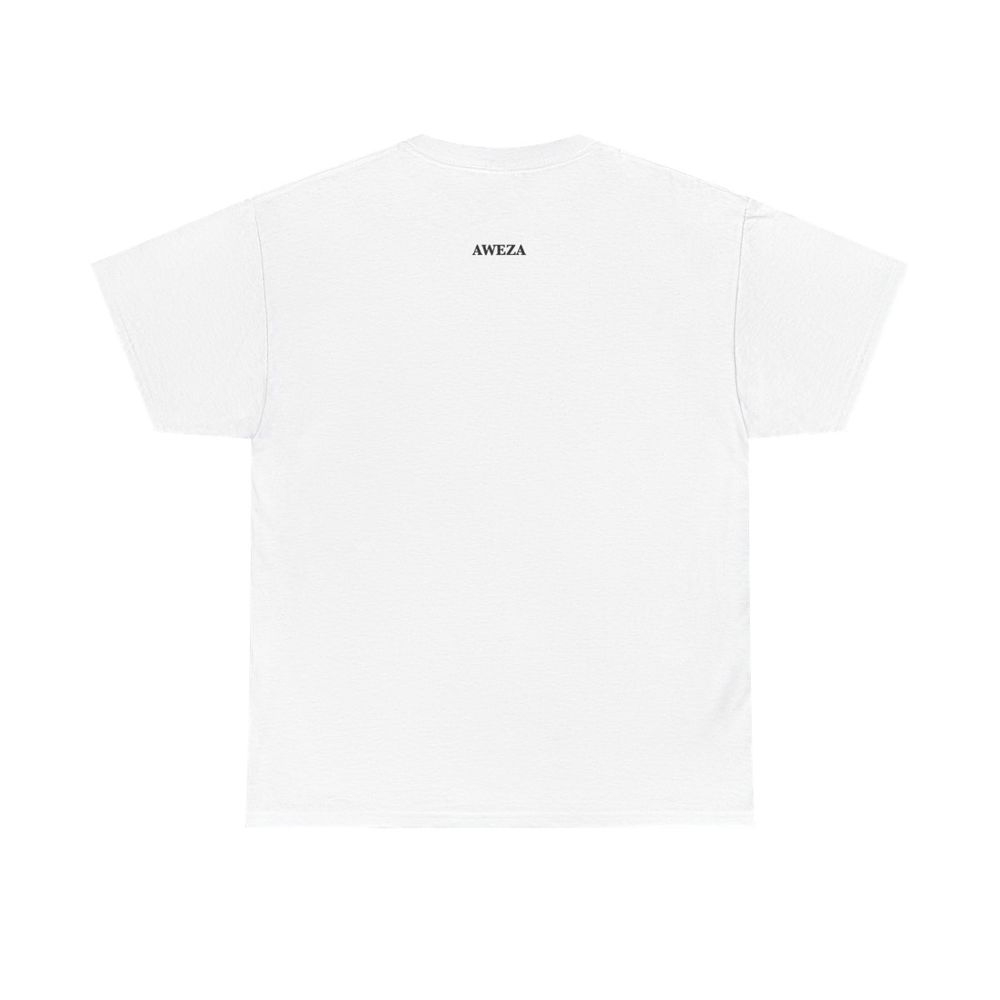
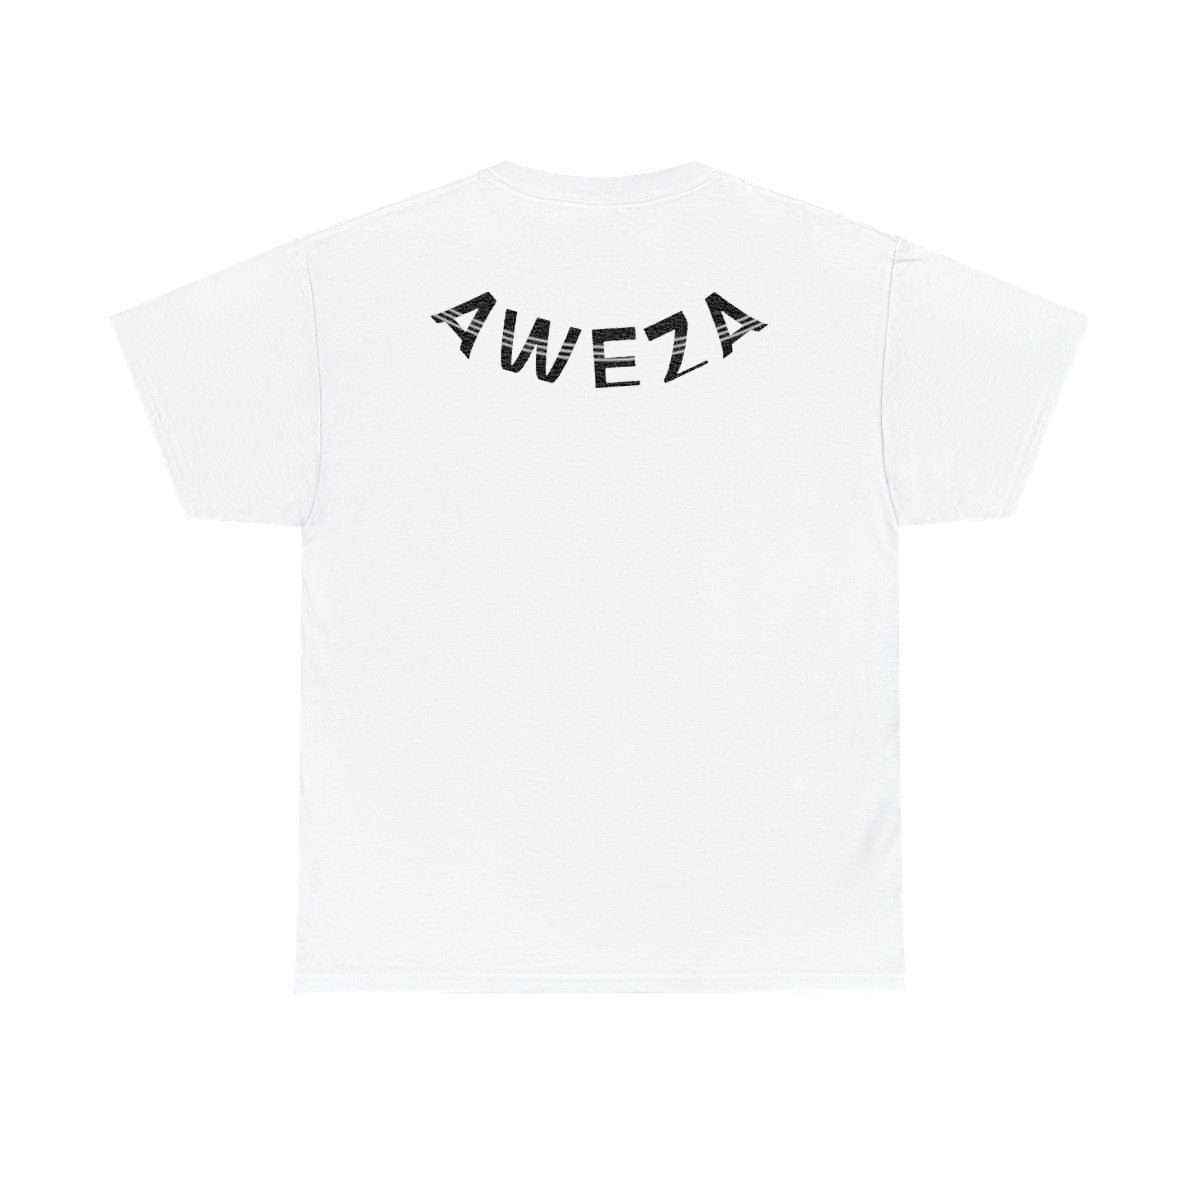
Need A Hug: new big arched AWEZA on the back, black with stripes
Printify changed the back print (small mark -> large arched lettering). The 3D back texture and the back photo
now show it in black with thin knocked-out stripes; the old AI back shot (small logo) is removed so the 3D shirt shows the new back.
Note in docs: Printify's mockup shows the print in light grey, check the print file.

Claude-Session: https://claude.ai/code/session_01NvykxtFoakGT37DM8pghmL

Changed region(s): [[0.341, 0.248, 0.651, 0.341]]

diff --git a/aweza/js/rail3d.js b/aweza/js/rail3d.js
@@ -28,7 +28,7 @@
     "ceo-of-bad-decisions": { front: shot("ceo-of-bad-decisions-front"), back: shot("ceo-of-bad-decisions-back") },
     "zero-exes":            { front: shot("zero-exes-front"),            back: shot("zero-exes-back") },
     "sweet-cupcake":        { front: shot("sweet-cupcake-front") },
-    "need-a-hug":           { front: real("need-a-hug"),                 back: shot("need-a-hug-back") },
+    "need-a-hug":           { front: real("need-a-hug") },   // back: the new big AWEZA print shows on the 3D shirt itself
     "captain-save":         { front: real("captain-save"),               back: shot("captain-save-back") },
     "black-out":           { front: shot("black-out-front"),            back: shot("black-out-back") },
     "time-of-your-life":   { front: shot("time-of-your-life-front"),    back: shot("time-of-your-life-back") },

diff --git a/aweza/data/products.js b/aweza/data/products.js
@@ -84,7 +84,7 @@ AW.collections = [
       id: "need-a-hug", name: "Need A Hug Tee", collection: "no-filter", price: 450,
       colourName: "White", sizes: STD, fit: "Heavyweight cotton, classic fit",
       images: img("need-a-hug", FRONT_FIRST),
-      summary: "Bold black type across the chest that says exactly what it means. Small AWEZA mark on the back, hugs not guaranteed.",
+      summary: "Bold black type across the chest that says exactly what it means. Big arched AWEZA lettering across the back, hugs not guaranteed.",
     },
     {
       id: "black-out", name: "Black Out Or Back Out Tee", collection: "bad-decisions", price: 450,

diff --git a/aweza/docs/OWNER-TODO.md b/aweza/docs/OWNER-TODO.md
@@ -38,3 +38,6 @@ The tee pages show R600 struck through next to the real R450, because the tees w
 - **It switches itself off on 31 January 2027** (`AW.config.was.until` in `data/products.js`). A reference price should not stay on a product for ever. Do not extend it unless you genuinely still sell or advertise at R600.
 - **Only for tees you actually advertised at R600.** Black Out Or Back Out and Time of Your Life were added later: if they were never advertised at R600, add `noWas: true` to them in `data/products.js` and the strike-through disappears for those two.
 - Bigger sizes show the matching "was" price (R640 for 2XL, R670 for 3XL to 5XL). The bag, checkout and card total always use the real prices.
+
+## 7. Need A Hug back print: check the colour in Printify
+On 13 November 2026 the back print in Printify (`IMG_0319.jpeg`, large arched AWEZA) shows as **light grey with no stripes** in Printify's own mockup. The website shows it **black with thin white stripes** (3D shirt and the back photo), as requested. The shirt Printify prints follows the print file, not the website, so open the product in Printify, check the file's colour and add the stripes there, or the shirts customers receive will not match the site.
